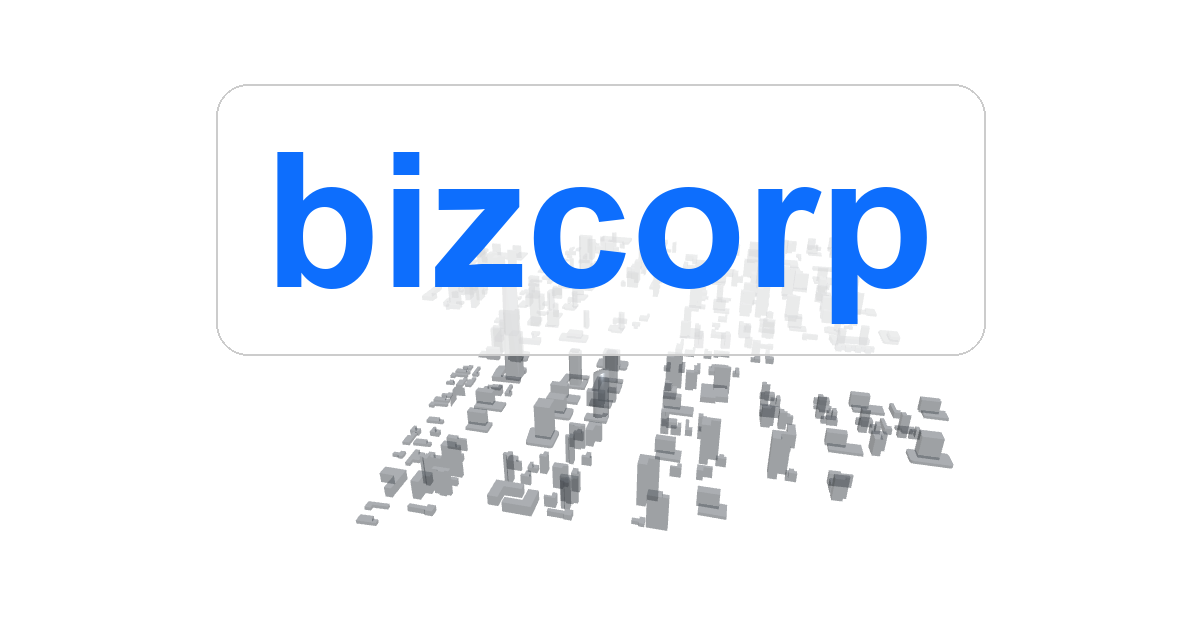
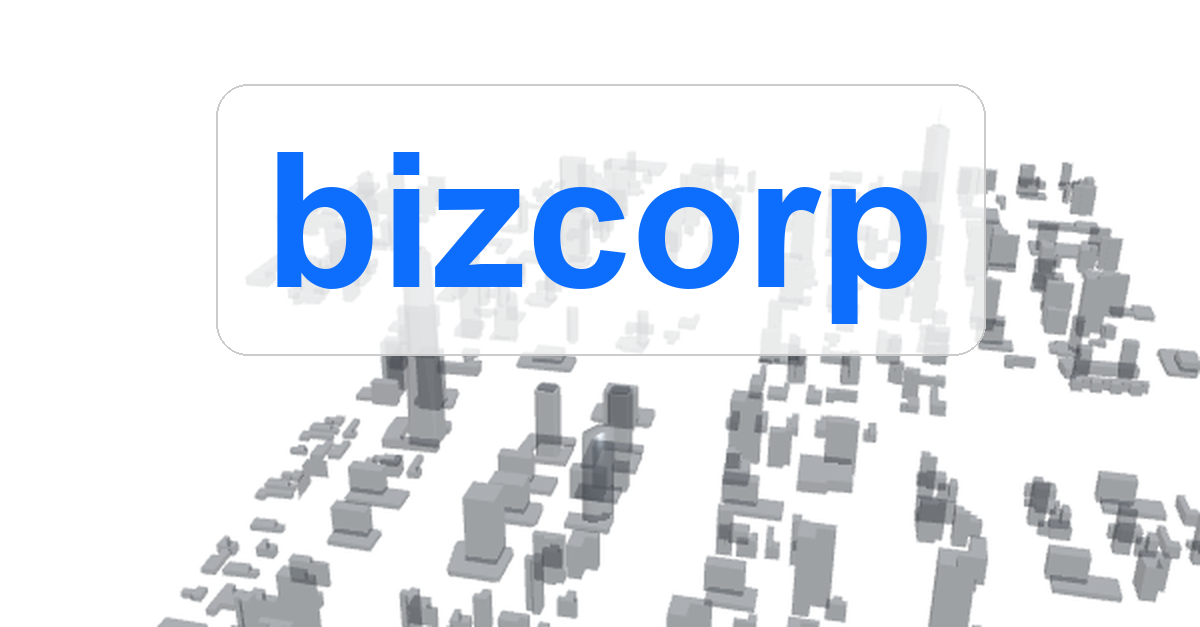
feat: 2x zoom on city bg for OG images, bump cache v9

diff --git a/frontend/index.html b/frontend/index.html
@@ -12,7 +12,7 @@
     />
     <meta
       property="og:image"
-      content="https://www.wingshot.dev/og-image.png?v=8"
+      content="https://www.wingshot.dev/og-image.png?v=9"
     />
     <meta property="og:url" content="https://www.wingshot.dev" />
     <meta property="og:type" content="website" />
